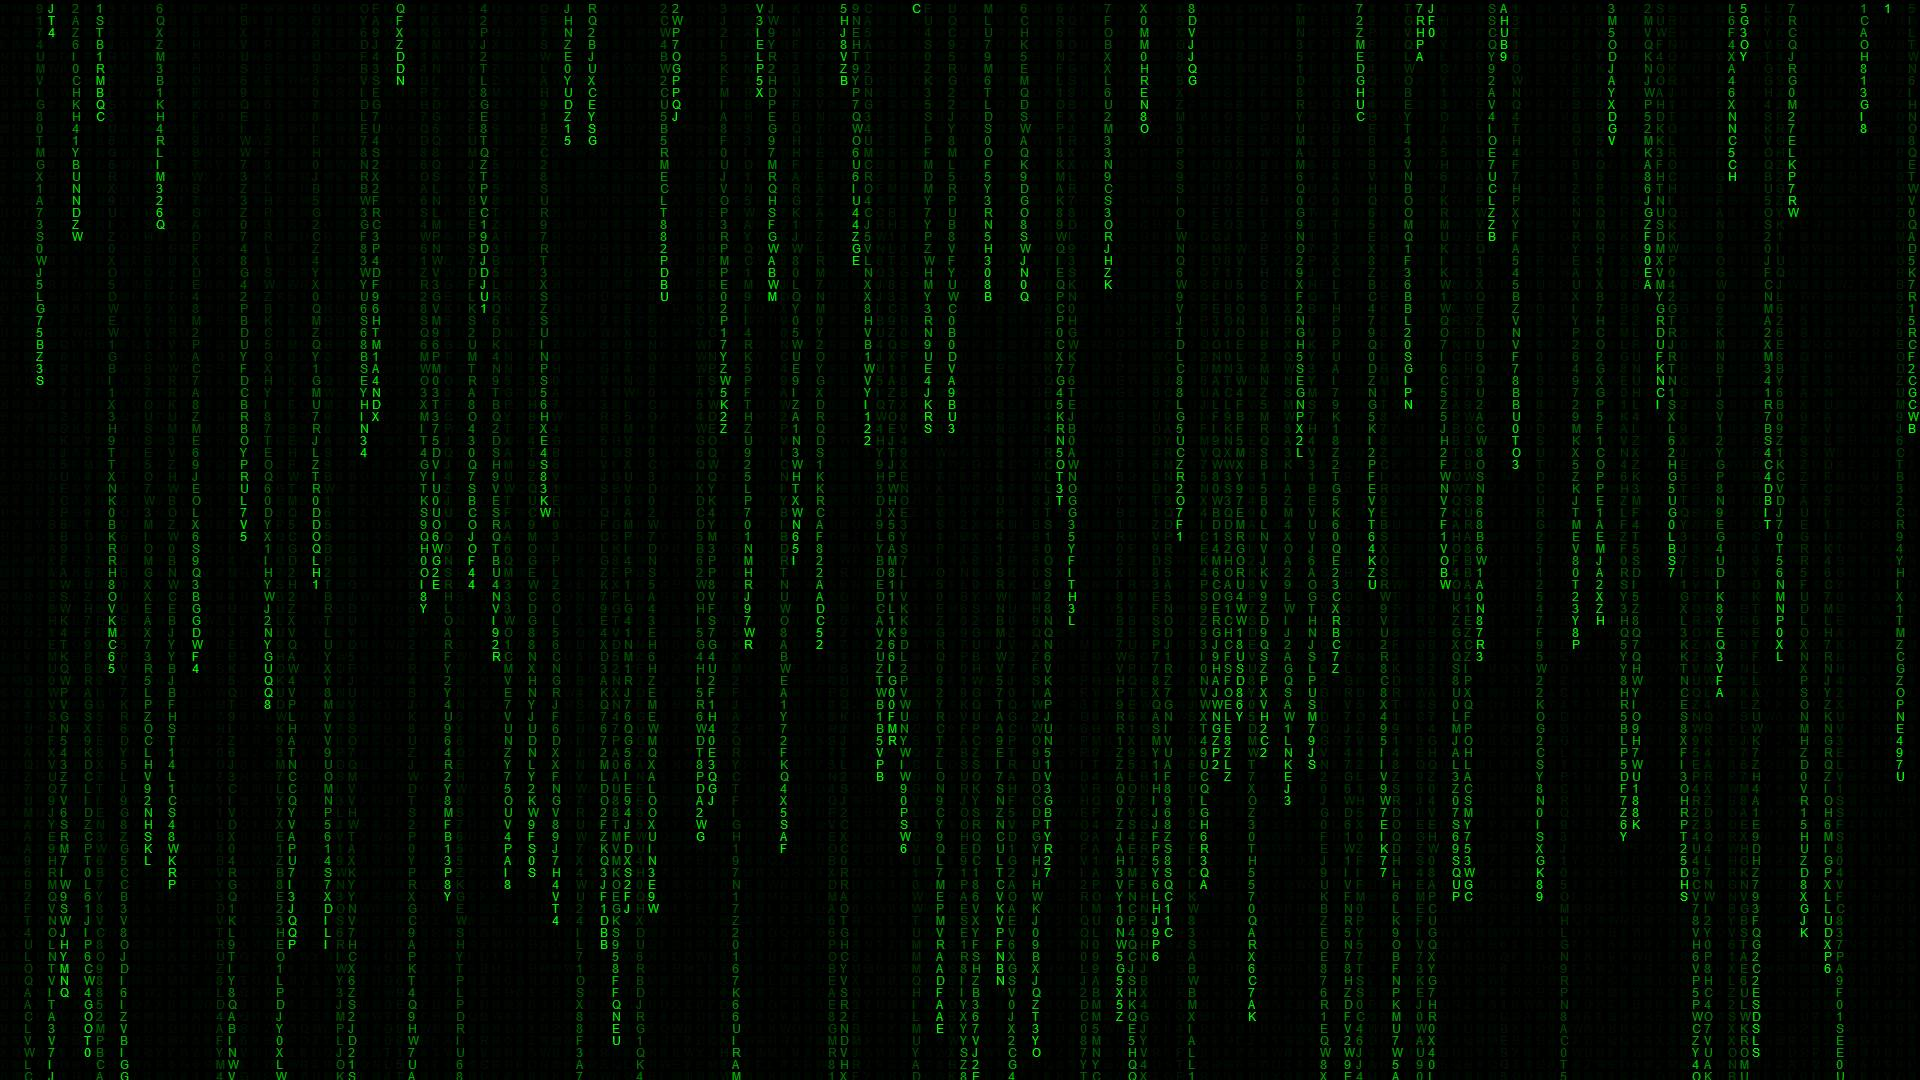
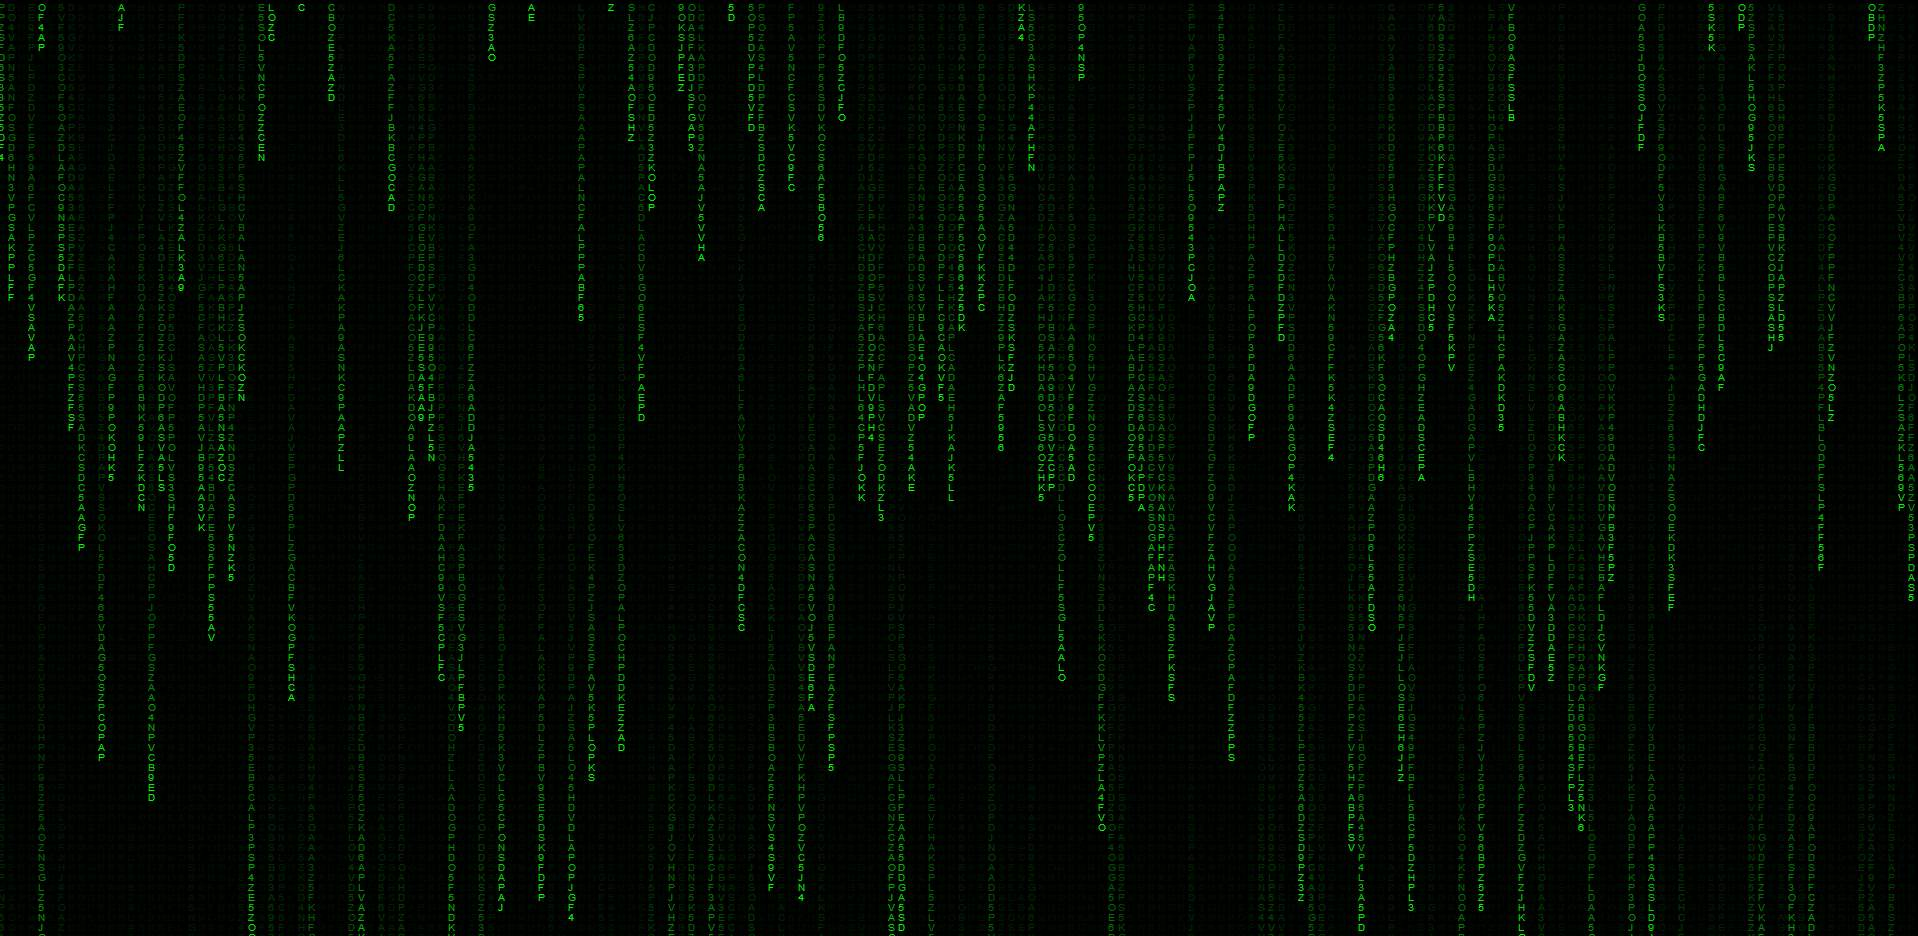
ajout de commentaires et nouvelle image matrix

diff --git a/templates/vigenere.html b/templates/vigenere.html
@@ -9,23 +9,24 @@ PEGPI - Chiffre de Vigenère
 
 {% block content %}
 <h1>Le Chiffre de Vigenère</h1>
-<figure>
+<figure> {# écriture moderne HTLM pour insérer des images avec titre #}
     <img src="{{ url_for('static', filename='vigenere_200px.png') }}" alt="Chiffre de Vigenère">
-    <figcaption>Blaise de Vigenère<br />(source wikipedia)</figcaption>
+    <figcaption>Blaise de Vigenère<br />(source wikipedia)</figcaption> {# "titre" de l'image en question  #}
 </figure>
 
-<form id="form_vigenere" method="post" action="{{ url_for('vigenere') }}">
+<form id="form_vigenere" method="post" action="{{ url_for('vigenere') }}"> {# on met en place le formulaire de (dé)chiffrage #}
     {% if params.error !='' %}
-    <p class="erreur">{{ params.error }}</p>
+    <p class="erreur">{{ params.error }}</p> {# affiche la valeur python de params.error #}
     {% endif %}
-    <label for="vigenere_message">Message à (dé)chiffrer</label><br /><textarea name="message" id="vigenere_message"
-        rows="8" cols="60">{{ params.message }}</textarea><br />
-    <label for="vigenere_key">Clé</label><br /><input type="text" id="vigenere_key" name="key" value="{{ params.key }}"
-        size="36" class="" /><br />
+    <label for="vigenere_message">Message à (dé)chiffrer</label><br /><textarea name="message" id="vigenere_message" {# champ de saisi du msg avec le name qu on retrouve dans les params #}
+        rows="8" cols="60">{{ params.message }}</textarea><br /> {# le template affiche l entre accolades #}
+    <label for="vigenere_key">Clé</label><br /><input type="text" id="vigenere_key" name="key" value="{{ params.key }}" {# pareil pour key #}
+        size="36" /><br />
+    {# on introduit les boutons chiffrer et déchiffrer #}
     <input type="submit" name="chiffrer" value="Chiffrer" />
     <input type="submit" name="dechiffrer" value="Déchiffrer" />
 </form>
-{% if params.result !='' %}
+{% if params.result !='' %} {# on vérifie qu'il y a bien un résultat et donc pas d'erreurs et on l'affiche #}
 <p>Résultat : {{ params.result }}</p>
 {% endif %}
 {% endblock %}

diff --git a/static/style.css b/static/style.css
@@ -41,16 +41,16 @@ h6 {
 /* html image de fond toute la page : http://css.mammouthland.net/image-de-fond-background-css.php */
 body {
     background-image : url(/static/matrix.jpg);
-    background-repeat: no-repeat;
-    background-size  : cover;
-    background-attachment: fixed;
+    /* background-repeat: no-repeat; */
+    background-size  : cover; /* s'adapte à la taille de fond dispo */
+   /* background-attachment: fixed  ; */
 }
 
 #page {
     /* page web sur toute la hauteur : https://www.alsacreations.com/astuce/lire/51-hauteur-100-element.html */
     min-height: 100vh;
     /* pour centrer la page : https://www.alsacreations.com/article/lire/539-Centrer-les-elements-ou-un-site-web-en-CSS.html */
-    width: 960px;
+    width: 960px; /* largeur classique pour affichage sur touts les écrans */
     margin-left : auto;
     margin-right: auto;
     /* marges intérieures */
@@ -59,7 +59,7 @@ body {
     padding-left: 40px;
     padding-right: 40px;
     /* fond blanc un peu transparent pour voir l'image de fond */
-    background-color: rgba(255, 255, 255, 0.8);
+    background-color: rgba(255, 255, 255, 0.7);
 }
 
 /* https://www.alsacreations.com/article/lire/1337-html5-elements-figure-et-figcaption.html */
@@ -84,12 +84,13 @@ figure img {
     background-color: red;
     color           : white;
     padding         : 5px;
+    text-align      : center;
 }
 
 /* style du formulaire */
 
 textarea,
-input[type='text'] {
+input[type='text'] /* input de type text */ {
     background-color: lightcyan;
 }
 
@@ -99,12 +100,12 @@ input[type='submit'] {
     padding         : 8px;
     border-radius   : 8px;
     border          : none;
-    background-color: #5f9ea0;
+    background-color: #5f9ea0; /* RGB = 95, 158, 160 */
     color           : white;
 }
 
 input[type='submit']:hover {
-    background-color: #4f8e90;
+    background-color: #4f8e90; /* le bouton est cliquable quand il est survolé */
 }
 
 input[type='submit'],

diff --git a/templates/base.html b/templates/base.html
@@ -7,6 +7,7 @@
   <meta charset="utf-8">
   <meta http-equiv="X-UA-Compatible" content="IE=edge">
   <meta name="viewport" content="width=device-width, initial-scale=1">
+  <!-- utilisation google fonts (police de caractere) -->
   <link href="https://fonts.googleapis.com/css?family=Merriweather|Open+Sans" rel="stylesheet">
   <link rel="stylesheet" type="text/css" href="{{ url_for('static', filename='style.css') }}">
   <!--[if lt IE 9]>
@@ -25,6 +26,7 @@
     <header>
       {% block header %}{% endblock %}
     </header>
+    <!-- copié collé doc flask -->
     <section class="content">
       {% for message in get_flashed_messages() %}
       <div class="flash">{{ message }}</div>

diff --git a/templates/home.html b/templates/home.html
@@ -1,11 +1,11 @@
 {# http://flask.pocoo.org/docs/1.0/tutorial/templates/ #}
-{% extends 'base.html' %}
+{% extends 'base.html' %} {# le template home utilise la mise en page définie par base #}
 
-{% block title %}
+{% block title %} {# titre dans la barre d'onglet du navigateur #}
 PEGPI - Accueil
 {% endblock %}
 
-{% block pageclass %}page-home{% endblock %}
+{% block pageclass %}page-home{% endblock %} {# permettre differents sur styles sur plusieurs pages #}
 
 {% block content %}
 <div id="figures">

diff --git a/vigenere.py b/vigenere.py
@@ -1,11 +1,14 @@
+#enlever les accents dans une chaine python
+#https://stackoverflow.com/questions/517923/what-is-the-best-way-to-remove-accents-in-a-python-unicode-string
 import unidecode
 
 
-def vigenere_clean(text):
-    tmp = unidecode.unidecode(text)
-    tmp = tmp.upper()
-    letters = [c for c in tmp if ord(c) >= ord('A') and ord(c) <= ord('Z')]
-    clean_text = "".join(letters)
+def vigenere_clean(text): # on remplace les accents par leurs propres lettres, tout mettre en majuscule, enlever ce qui n'est pas une lettre
+    tmp = unidecode.unidecode(text) #on supprime les accents
+    tmp = tmp.upper() #mise en maj
+    letters = [c for c in tmp if ord(c) >= ord('A') and ord(c) <= ord('Z')] #compréhension liste python :https://miamondo.org/2017/02/27/python-les-comprehensions-de-liste/
+    # on ne garde que les lettres dans une liste
+    clean_text = "".join(letters) # on transforme les lettres de la liste en un mot
     return clean_text
 
 
@@ -38,32 +41,36 @@ TableVigenere = {'A': "ABCDEFGHIJKLMNOPQRSTUVWXYZ",
                 }
 
 
-def vigenere_crypt(message_, key_):
-    message = vigenere_clean(message_)
-    key = vigenere_clean(key_)
+def vigenere_crypt(message, key):
+    message = vigenere_clean(message)
+    key = vigenere_clean(key)
 
-    codingString = ""
+    crypt_string = ""
     count = 0
 
     for c in message :
 
-            codingString += TableVigenere[key[count%len(key)]][ord(c) - ord('A')]
-            count += 1
+        ligne_crypt = TableVigenere[key[count%len(key)]] # on cherche la ligne de tabvig en question
+        pos_c = ord(c) - ord('A') # on cherche la pos de la lettre dans la ligne
+        crypt_c = ligne_crypt[pos_c] # on récupère le cryptage de c
+        crypt_string += crypt_c
+        count += 1 # on éxécute le programme pour chaques lettres du message
 
-    return codingString
+    return crypt_string
 
 
-def vigenere_decrypt(message_, key_) :
-    message = vigenere_clean(message_)
-    key = vigenere_clean(key_)
+def vigenere_decrypt(message, key) :
+    message = vigenere_clean(message)
+    key = vigenere_clean(key)
 
-    decodingString = ""
+    decoding_string = ""
     count = 0
 
     for c in message :
-        pos = TableVigenere[key[count%len(key)]].find(c)
-        pos += ord('A')
-        decodingString += chr(pos)
+        ligne_decrypt = TableVigenere[key[count%len(key)]] # on cherche la ligne de tabvig en question
+        pos_decrypt = ligne_decrypt.find(c) # on cherche la pos de c dans la variable
+        pos_decrypt += ord('A') # devient le code ascii de la lettre correspondante
+        decoding_string += chr(pos_decrypt)#donne le caractère correspondant au code ascii
         count += 1
 
-    return decodingString
+    return decoding_string

diff --git a/pegpi_app.py b/pegpi_app.py
@@ -1,7 +1,7 @@
 
 # A very simple Flask Hello World app for you to get started with...
 
-from flask import Flask, render_template, url_for, request
+from flask import Flask, render_template, url_for, request #url_for : genere les bonnes adresses en fonction du nom du serveur
 
 from vigenere import vigenere_crypt, vigenere_decrypt, vigenere_clean
 
@@ -17,11 +17,13 @@ def home():
 def cesar():
     return render_template('cesar.html')
 
-
+#on associe une URL a la fonction qui suit. L'URL vigenere peut être appelé en GET pour un affichage simple
+#peut être appelé en POST dans le cas de l'envoi du formulaire
 @app.route('/vigenere', methods=['GET', 'POST'])
 def vigenere():
-    try:
-        message = vigenere_clean(request.form['message'])
+    try: #traite des erreurs lors de l'éxecution du block(tj av except)
+#request est fourni par le module request et donne les infos sur la requête en cours
+        message = vigenere_clean(request.form['message']) #nettoie tout ce qui n'est pas maj
     except:
         message = ''
 
@@ -29,20 +31,21 @@ def vigenere():
         key = vigenere_clean(request.form['key'])
     except:
         key = ''
-
+#on cherche à transmettre toutes les données nécessaire au template
     error = ''
     result = ''
-    if message != '' and key != '':
-        # python test dictionary key
-        # https://stackoverflow.com/questions/1602934/check-if-a-given-key-already-exists-in-a-dictionary
+    if message != '' and key != '': #le formulaire est rempli donc on peut (dé)chiffrer
+        # savoir si une valeur est dans un dictionnaire python
+        # https://www.journaldunet.fr/web-tech/developpement/1202879-python-comment-verifier-si-une-cle-key-existe-dans-un-dictionnaire/
         if 'chiffrer' in request.form:
-            result = vigenere_crypt(message, key)
+            result = vigenere_crypt(message, key) # on rentre dans result le résultat du cryptage
         else:
-            result = vigenere_decrypt(message, key)
-    elif request.method == 'POST':
+            result = vigenere_decrypt(message, key) # on rentre dans result le résultat du décryptage
+    elif request.method == 'POST':  #on test que la méthode est POST pour être sur que le formulaire a été rempli
         error = 'Merci de remplir correctement le formulaire'
 
-    return render_template('vigenere.html', params={'message': message, 'key': key, 'error': error, 'result': result})
+    return render_template('vigenere.html', params={'message': message, 'key': key, 'error': error, 'result': result}) #on donne au template les données dont il a besoin
+    #params=toutes les données accumulées
 
 
 @app.route('/rsa')
